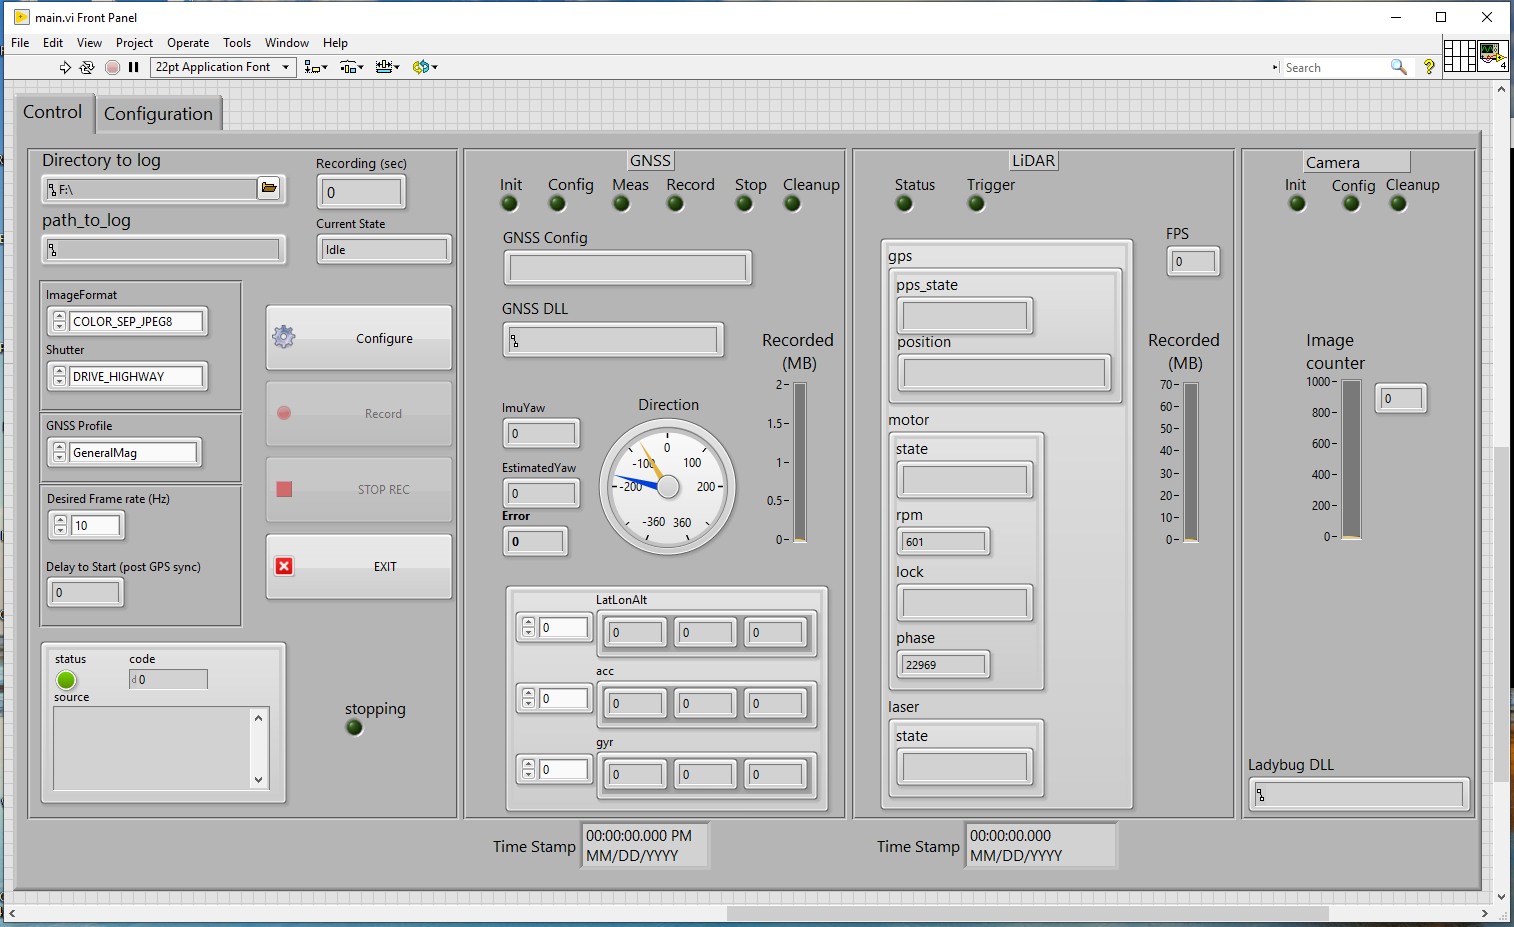
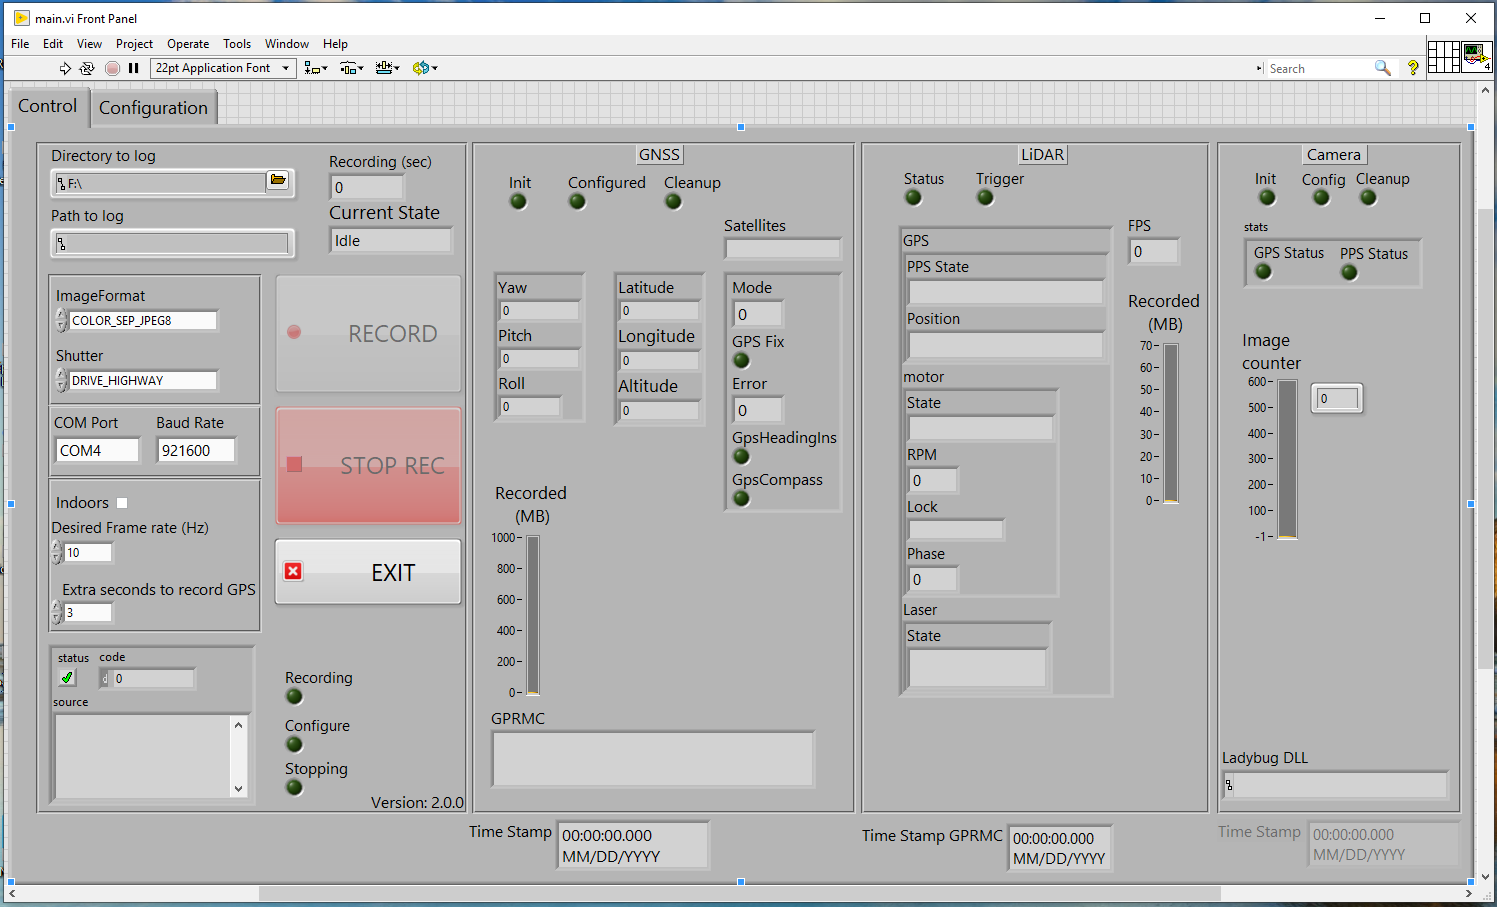
Updated with latest r2v info

diff --git a/docs/r2v/data_processing_quick_start.md b/docs/r2v/data_processing_quick_start.md
@@ -9,7 +9,7 @@ levels usable in the monoDrive Simulator.
 
 ### Pre-requisites
 
-* [Ubuntu 18.04](https://releases.ubuntu.com/18.04.4/)
+* [Ubuntu 18.04](https://releases.ubuntu.com/18.04.4/) or [Ubuntu 20.04](https://releases.ubuntu.com/20.04/)
 * [Docker 19.03+](https://docs.docker.com/install/linux/docker-ce/ubuntu/)
 * [NVIDIA Graphics Drivers](https://www.nvidia.com/Download/index.aspx)
 * [NVIDIA Container Toolkit](https://github.com/NVIDIA/nvidia-docker#ubuntu-16041804-debian-jessiestretchbuster)
@@ -17,29 +17,16 @@ levels usable in the monoDrive Simulator.
 ### Processing Pipeline Installation
 
 Users of the Real-to-Virtual software will have access to the monoDrive 
-Real-to-Virtual deployment repository. This repo contains all software for 
-processing real-to-virtual data into assets for us in Unreal Engine and the
-monoDrive Simulator.
+Real-to-Virtual deployment. These binary Docker images and configuration files  
+contain all software for processing real-to-virtual data into assets for use in 
+Unreal Engine and the monoDrive Simulator.
 
-#### Setup
-Before building Docker images, the monoDrive AWS secret for authentication must 
-be copied to your installation location: 
-
-* Copy file secrets file provided by monoDrive to the `etc/aws_secret_template.txt`
-
-#### Build
-The repository provides a build script for creating the necessary Docker images.
-Run build script to create docker images and pull down configure assets:
+To install, navigate to the provided directory with Docker images and 
+installation scripts and run:
 
 ```
-$ ./build.sh
+$ ./load_docker_deployment.sh --deployment-dir .
 ```
-
-A new directory called `config/` containing a copy of all config assets that 
-have been pulled down from their respective repositories. The `config/` 
-directory contains files which contain configuration parameters to tune for
-individual Real-to-Virtual data collections. Note that these configs will not be
-overwritten by the build script unless you pass the `--overwrite-config` flag.
 
 ## Calibrating LiDAR Position
 
@@ -50,20 +37,35 @@ registering the camera and LiDAR can lead to better cloud classification and
 more accurate dynamic actor detection.
 
 The registration tool is provided as part of the monoDrive Real-to-Virtual 
-software suite. This Python script allows the user to view the current 
+software suite. This Docker image allows the user to view the current 
 calibration and easily provide minor offset values. To use the tool: 
 
 ```bash
-$ conda activate monodrive-r2v
-(monodrive-r2v) $ python ./cloud_camera_registration.py -s \
-    --data /path/to/data/collection/kitti \
-    --show-intensity \
-    --lidar_pos_offset 0.0 0.0 0.0 \
-    --lidar_angle_offset 0.0 0.0 0.0
+$ ./run_pipeline.sh --workspace /path/to/data_collection \
+    --lidar-camera-calibration \
+    --frame 100 
 ```
 
-In this example, we are showing the intensity of the LiDAR mapped to a Jet 
-colormap. The initial alignment can be seen in the following picture:
+* `--lidar-camera-calibration` tells the script to run the calibration tool.
+* `--frame` is the frame in the data collection to view. 
+
+The tool uses the `senor_offsets.json` file in the `config` directory in the 
+deployment to apply offsets to the LiDAR rotation and translation. Change the 
+values in this file for `lidar_pos_offset` (meters in x, y, and z directions) 
+and `lidar_angle_offset` (degrees in the roll, pitch, and yaw) until the 
+LiDAR and camera are properly aligned. An example of JSON file can be seen here:
+
+```
+{
+    "lidar_pos_offset": [0.0, 0.0, 0.0],
+    "lidar_angle_offset": [0.0, 0.0, 0.0],
+    "gnss_pos_offset": [0.0, 0.0, 0.0],
+    "gnss_angle_offset": [0.0, 0.0, 0.0]
+}
+```
+
+In the example below, initial alignment showing the intensity of the LiDAR 
+mapped to a Jet colormap can be seen projected onto the image data:
 
 <div class="img_container">
     <img class='lg_img' src="../imgs/lidar_camera_calibration_before.png"/>
@@ -72,12 +74,13 @@ colormap. The initial alignment can be seen in the following picture:
 By providing slight offsets to correct for the angle of the LiDAR, we can align
 the high intensity points with the road markers:
 
-```bash
-(monodrive-r2v) $ python ./cloud_camera_registration.py -s \
-    --data /path/to/data/collection/kitti \
-    --show-intensity \
-    --lidar_pos_offset 0.0 0.15 0.0 \
-    --lidar_angle_offset -0.5 0.0 0.0
+```
+{
+    "lidar_pos_offset": [0.0, 0.20, -0.06],
+    "lidar_angle_offset": [-0.3, -0.15, 0.0],
+    "gnss_pos_offset": [0.0, 0.0, 0.0],
+    "gnss_angle_offset": [0.0, 0.0, 0.0]
+}
 ```
 
 Here the angle offsets are in degrees and the position offsets are in 
@@ -98,17 +101,34 @@ calibration can be applied to the LiDAR and GNSS in order to improve the
 fidelity of the final point clouds and meshes. The LiDAR and GNSS calibration 
 tool is provided with the Real-to-Virtual distribution and can be used like:
 
-```
-$ conda activate monodrive-r2v
-(monodrive-r2v) $ python ./lidar_gnss_calibration.py \
-    --data /path/to/data/kitti \
-    --gnss_pos_offset 0.0 0.0 0.0 \
-    --gnss_angle_offset 0.0 0.0 0.0 \
+```bash
+$ ./run_pipeline.sh --workspace /path/to/data_collection \
+    --lidar-gnss-calibration \
+    --frame 100 \
+    --number-of-frames 20
 ```
 
-This command should bring up a window to allow you to view the point cloud's 
-current registration with no offsets. Notice the line (representing 
-the location of the data collection vehicle) has several discontinuities.
+* `--lidar-gnss-calibration` tells the script to run the calibration tool.
+* `--frame` is the frame in the data where the calibration will begin.
+* `--number-of-frames` is the total number of frames to use when stitching clouds.
+
+The tool uses the `senor_offsets.json` file in the `config` directory in the 
+deployment to apply offsets to the GNSS rotation and translation. Change the 
+values in this file for `gnss_pos_offset` (meters in x, y, and z directions) 
+and `gnss_angle_offset` (degrees in the roll, pitch, and yaw):
+
+```
+{
+    "lidar_pos_offset": [0.0, 0.0, 0.0],
+    "lidar_angle_offset": [0.0, 0.0, 0.0],
+    "gnss_pos_offset": [0.0, 0.0, 0.0],
+    "gnss_angle_offset": [0.0, 0.0, 0.0]
+}
+```
+Using the default values of `0` in the `sensor_offset.json` will bring up a 
+window to allow you to view the point cloud's current registration with no 
+offsets. Notice the line (representing the location of the data collection 
+vehicle) has several discontinuities.
 
 <div class="img_container">
     <img class='lg_img' src="../imgs/lidar_gnss_calibration_before.png"/>
@@ -118,13 +138,15 @@ The discontinuities in the image above can be corrected by applying the
 following offsets:
 
 ```
-(monodrive-r2v) $ python ./lidar_gnss_calibration.py \
-    --data /path/to/data/kitti \
-    --gnss_pos_offset 0.0 0.0 0.0 \
-    --gnss_angle_offset -0.5 0.0 0.5 \
+{
+    "lidar_pos_offset": [0.0, 0.0, 0.0],
+    "lidar_angle_offset": [0.0, 0.0, 0.0],
+    "gnss_pos_offset": [0.02, -0.02, 0.01],
+    "gnss_angle_offset": [-0.5, 0.0, 0.5]
+}
 ```
 
-The position offsets are in centimeters and the angle offsets are in degrees. 
+The position offsets are in meters and the angle offsets are in degrees. 
 The resulting cloud now looks more correct: 
 
 <div class="img_container">

diff --git a/docs/r2v/data_collection_quick_start.md b/docs/r2v/data_collection_quick_start.md
@@ -8,7 +8,7 @@ collection process. The data collection needs to be conducted with the minimum:
 * LiDAR - [Velodyne Puck Hi-Res](https://velodynelidar.com/products/puck-hi-res/) or better
 * Camera for scene generation - [FLIR Blackfly](https://www.flir.com/products/blackfly-s-usb3/?model=BFS-U3-63S4C-C)
 * Camera for dynamic actors - [FLIR Ladybug 5+](https://www.flir.com/products/ladybug5plus/)
-* GNSS or GPS + IMU - [Xsens MTi-G-710](https://shop-us.xsens.com/shop/mti-g-710/mti-g-710-gnssins-2a8g4) or better
+* GNSS or GPS + IMU - [VectorNav VN-310](https://www.vectornav.com/products/vn-310) or better
 
 The monoDrive Real-to-Virtual hardware provides the proper sensor suite and 
 transforms in a package that can be easily mounted to a roof mount:
@@ -28,8 +28,8 @@ placed above the vehicle so all surroundings can be recorded.
 
 For the monoDrive Real-to-Virtual hardware, the original spherical camera data
 must be calibrated for proper field-of-view prior to parsing in order to crop
-out static objects. The original shows a good portion of the data collection 
-vehicle:
+out the data collection vehicle. The original full size images show a good 
+portion of the data collection vehicle:
 
 <div class="img_container">
     <img class='lg_img' src="../imgs/kitti_data_full_size_image.png"/>
@@ -37,8 +37,6 @@ vehicle:
 
 The data collection software provides a tool to determine the optimal 
 field-of-view in both the horizontal and vertical dimensions. 
-
-<!-- > **TODO:** insert picture of calibration tool for images. -->
 
 After finding the optimal field-of-view angles, the values should be entered 
 into the "Ladybug Configuration" section of the "Configuration" tab. For the
@@ -68,34 +66,31 @@ monoDrive vehicle the JSON should look like:
 When parsed, the above settings turn the image into a cropped version:
 
 <div class="img_container">
-    <img class='wide_img' src="../imgs/kitti_data_cropped_image.png"/>
+    <img class='wide_img' src="../imgs/kitti_data_cropped_size_image.png"/>
 </div>
 
 ### GNSS Calibration
 
-In order to achieve an accurate heading from the Xsens GNSS, the magnetic field
-mapper tool must be  used to calibrate for the local magnetic bias. The 
-[Magnetic Calibration Manual](https://www.xsens.com/hubfs/Downloads/Manuals/MT_Magnetic_Calibration_Manual.pdf) Section 3.3 specifies the steps necessary
-to calibrate. 
-
-1. Open that Xsens Magnetic Field Mapper software
-1. Select "Use Motion Tracker"
-1. "Scan" for the connected Xsens device
-1. Once the device is found, click next "Start" to begin calibration
-1. Drive the vehicle in **two consecutive circles** then click "Process"
-1. If result state "Acceptable" or better, select "Write to selected devices"
+In order to achieve an accurate heading from the VectorNav VN-310, the device
+needs to run for a few minutes in order to achieve a sufficient navigation lock. 
+For the monoDrive Real-to-Virtual hardware kit, this means plugging in the 
+sensor kit and driving around for a few minutes prior to recording. See the 
+[VectorNav Documentation](https://www.vectornav.com/resources/vn-310-user-manual) 
+for more info on ensuring the device is properly locked.
 
 ## Data Collection
 
-After calibration, **do not power off the hardware**. This will preserve all
-calibration parameters. To collect data:
+To collect data:
 
-1. Click the "Run" arrow on the top-left of the monoDrive LabVIEW data logger application. The data logger will connect to all sensors and ensure they are functioning as expected.
-1. Click "Configure" to configure the software the values in the configuration tab.
-1. The software is now connected and can display sensor outputs. In order to acclimate the GNSS to the magnetic field, drive around for approximately 5 minutes
-1. Once the IMU yaw and the Estimated Yaw are relatively close (~1-2 degrees), data collection can begin
-1. To begin recording data, click "Record"
-1. When data collection is complete, click "Stop"
+1. Ensure that the JSON configurations are correct in the "Configure" tab.
+1. With the "Control" tab selected, click the "Run" arrow on the top-left of 
+the monoDrive LabVIEW data logger application. The data logger will connect to 
+all sensors and ensure they are functioning as expected.
+1. The software is now connected and can display sensor outputs. 
+To begin recording data, click "Record".
+1. When data collection is complete, click "Stop Rec"
+1. When you are done collecting data, click "Exit" to properly shut down all the 
+sensor connections.
 
 <div class="img_container">
     <img class='wide_img' src="../imgs/data_logger_main_tab.png"/>
@@ -109,8 +104,10 @@ conditions. In order to get the best results during data collection:
 * Drive the vehicle between 15 and 50 miles per hour
 * Avoid taking sharp or fast turns
 * If possible avoid stopping the vehicle for long periods of time
-* The less traffic around during collection, the better the output of the scene generation will be
-* Try to limit data collection to a few minutes. While long runs will work, shorter and more frequent data collection will make processing easier
+* The less traffic around during collection, the better the output of the scene 
+generation will be
+* Try to limit data collection to a few minutes. While long runs will work, 
+shorter and more frequent data collection will make processing easier
 
 ## Verifying Data Collection Output
 
@@ -120,30 +117,19 @@ in subfolders that match the year, date, and time by hour. To verify that a run
 was successful:
 
 * Ensure that all streams are present in the output `binary` directory:
-    * Configuration files: `configuration_gnss.txt`, `configuration_ladybug.txt`, `configuration_lidar.txt`
+    * Configuration files: `configuration_vectornav.txt`, 
+    `configuration_ladybug.txt`, `configuration_lidar.txt`
     * LiDAR data: `lidar.bin`
-    * GNSS data: `logfile.mtb`
+    * GNSS data: `vectornav.bin`
     * Ladybug Data: `streams-000000.pgr`
     * Timestamp data: `timestamps_lidar.txt`, `timestamps_trigger.txt`
-
-Validating the location of the data collection can be done by viewing the Xsens
-output in [Google Earth](https://www.google.com/earth/versions/#download-pro):
-
-1. Double-click the `logfile.mtb` file for the data collection
-1. In the MT Manger, select `File` -> `Export`
-1. Select "KMZ Exporter" from the "Exporter" drop-down and click "Export"
-1. Find the `logfile-000.kmz` that was generated and double click. Google Earth will open showing the data collection.
-1. Ensure the location of the data collection is correct and the heading arrow points along the path similar to the image below
-
-<div class="img_container">
-    <img class='lg_img' src="../imgs/google_earth_gnss_output.png"/>
-</div>
 
 ## Parsing Data Into KITTI Format
 
 For use in the monoDrive Real-to-Virtual data processing pipeline, the collected
 data needs to be converted to the 
-[KITTI format](https://www.cvlibs.net/datasets/kitti/index.php). The `monodrive_to_kitti.py` script in the monoDrive Mapping Toolkit allows users
+[KITTI format](https://www.cvlibs.net/datasets/kitti/index.php). The 
+`monodrive_to_kitti.py` script in the monoDrive Mapping Toolkit allows users
 to parse the collected binary data into KITTI:
 
 ```

diff --git a/docs/r2v/data_processing_output.md b/docs/r2v/data_processing_output.md
@@ -22,10 +22,10 @@ that are part of the monoDrive Real-to-Virtual hardware. The current data
 logger saves:
 
 * GNSS Data - Log files that can be played back in the 
-[MT Software Suite](https://content.xsens.com/mt-software-suite-download?hsCtaTracking=ca04936d-827e-43ef-a5e9-1797c4d9a297%7C1e7a3b81-a8f1-40af-8464-97db700b3dec)
+[VectorNav Control Center](https://www.vectornav.com/resources/vectornav-control-center)
 <div class="img_container">
   <video width=650px height=480px muted autoplay loop>
-    <source src="https://cdn.monodrive.io/readthedocs/mt_software_suite.mp4" type="video/mp4">
+    <source src="https://cdn.monodrive.io/readthedocs/vectornav_control_center.mp4" type="video/mp4">
   </video>
 </div> 
 
@@ -100,7 +100,8 @@ motion from a forward facing camera.
 
 ## SLAM
 
-monoDrive uses Simultaneous Localization And Mapping (SLAM) in order to 
+This is available from the optional third party distritbuion. monoDrive can use 
+Simultaneous Localization And Mapping (SLAM) in order to 
 supplement and improve the paths from the Real-to-Virtual hardware's GNSS. The
 `slam` directory contains the output paths from the visual odometry when run
 on the collected camera data. The output of the path is in the 
@@ -116,7 +117,7 @@ stitching algorithms.
 * There are several different paths formatted in the 
 [TUM format](https://vision.in.tum.de/data/datasets/rgbd-dataset/file_formats) 
 available in `.txt` files.
-* KML Files that can be loaded into Google Earth for viewing the GNSS paths.
+* KMZ Files that can be loaded for viewing the GNSS paths.
 <p>&nbsp;</p>
 <div class="img_container">
     <img class='lg_img' src="../imgs/full_gnss_path.png"/>
@@ -145,6 +146,14 @@ fusing the LiDAR and camera image data.
     <source src="https://cdn.monodrive.io/readthedocs/fully_stitched_semantic_cloud.mp4" type="video/mp4">
   </video>
 </div> 
+<p>&nbsp;</p>
+* There is also full color stiched cloud data available in the `cloud_full_color` directory
+<div class="img_container">
+  <video width=650px height=480px muted autoplay loop>
+    <source src="https://cdn.monodrive.io/readthedocs/full_color_cloud_example.mp4" type="video/mp4">
+  </video>
+</div> 
+<p>&nbsp;</p>
 
 ## Object Detection
 
@@ -289,6 +298,47 @@ object was tracked to
  * `camera`: The index of the camera the image was taken from
  * `bbox`: The bounding box within the frame of the object
  * `mask`: The RLE encoded mask of the object to the pixel level
+
+## Static Object Detection
+
+Once all of the objects of interest have been identified by the object detection
+and tracked by the tracking algorithms, they are registered with world at
+an instance level. The `actors` directory contains the JSON formatted data 
+that uniquely identifies each static object in the scene and provides world 
+location information for the object. 
+
+Each actor's JSON file should contain something similar to the following:
+
+```
+{
+  "_type": "StaticActor",
+  "class_label": 20,
+  "instance_label": 1035,
+  "tags": [],
+  "pose": {
+    "_type": "Pose",
+    "position": {
+      "_type": "Position",
+      "x": 41.97428340799148,
+      "y": -18.99226235561603,
+      "z": 0.6569370864010778
+    },
+    "quaternion": {
+      "_type": "Quaternion",
+      "x": 0.0,
+      "y": -0.0,
+      "z": 0.9644060037462335,
+      "w": 0.26442590632957996
+    }
+  }
+}
+```
+
+* `class_label`: Indicates the actors classification.
+* `instance_label`: Uniquely identifies this actor in the data set.
+* `tags`: Any tags that were applied to the actor for meta data.
+* `position`: The x, y, and z coordinates of the actor in the world.
+* `quaternion`: The quaternion that gives the rotation of the actor in the world.
 
 ## Mesh
 
